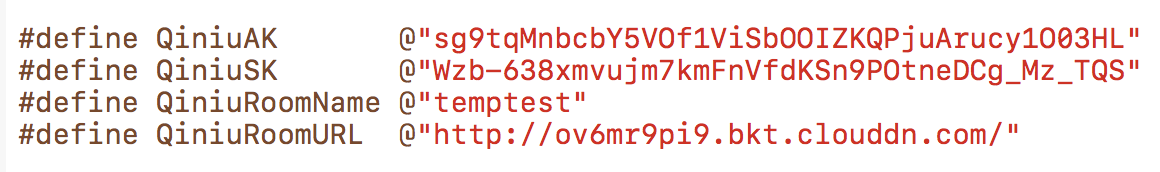
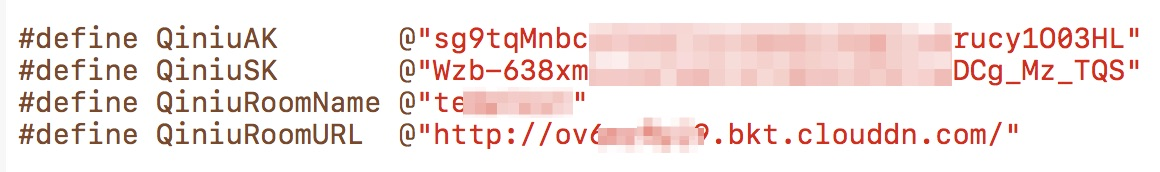
update

diff --git a/ToolBar/BoardToolBar.m b/ToolBar/BoardToolBar.m
@@ -424,8 +424,10 @@
             {
                 if(self.selectingObject){
                     [self.board removeObjectWithObject:self.selectingObject];
+                    self.selectingObject = nil;
                 }else if(self.selectingStaticObject){
                     [self.board removeObjectWithObject:self.selectingStaticObject];
+                    self.selectingStaticObject = nil;
                 }else{
                     //取父级VC
                     id target=self;
@@ -462,6 +464,7 @@
                     }
                 }
                 UIViewController *VC = target;
+                [VC.navigationController popViewControllerAnimated:YES];
                 
                 ZLPhotoActionSheet *actionSheet = [[ZLPhotoActionSheet alloc] init];
                 actionSheet.allowSelectVideo        = NO;
@@ -622,13 +625,13 @@
                                                           roomName:QiniuRoomName
                                                          SecretKey:QiniuSK
                                                          AccessKey:QiniuAK];
-    NSLog(@"%@",token);
+    //NSLog(@"%@",token);
     QNConfiguration *config =[QNConfiguration build:^(QNConfigurationBuilder *builder) {
         NSMutableArray *array = [[NSMutableArray alloc] init];
         [array addObject:[QNResolver systemResolver]];
         QNDnsManager *dns = [[QNDnsManager alloc] init:array networkInfo:[QNNetworkInfo normal]];
         //是否选择  https  上传
-        builder.zone = [[QNAutoZone alloc] initWithHttps:YES dns:dns];
+        builder.zone = [[QNAutoZone alloc]initWithDns:dns];
         //设置断点续传
         NSError *error;
         builder.recorder =  [QNFileRecorder fileRecorderWithFolder:@"temptest" error:&error];

diff --git a/DEMO/ToolBar/BoardToolBar.m b/DEMO/ToolBar/BoardToolBar.m
@@ -625,13 +625,13 @@
                                                           roomName:QiniuRoomName
                                                          SecretKey:QiniuSK
                                                          AccessKey:QiniuAK];
-    NSLog(@"%@",token);
+    //NSLog(@"%@",token);
     QNConfiguration *config =[QNConfiguration build:^(QNConfigurationBuilder *builder) {
         NSMutableArray *array = [[NSMutableArray alloc] init];
         [array addObject:[QNResolver systemResolver]];
         QNDnsManager *dns = [[QNDnsManager alloc] init:array networkInfo:[QNNetworkInfo normal]];
         //是否选择  https  上传
-        builder.zone = [[QNAutoZone alloc] initWithHttps:YES dns:dns];
+        builder.zone = [[QNAutoZone alloc]initWithDns:dns];
         //设置断点续传
         NSError *error;
         builder.recorder =  [QNFileRecorder fileRecorderWithFolder:@"temptest" error:&error];

diff --git a/DEMO/ToolBar/BoardToolBar.h b/DEMO/ToolBar/BoardToolBar.h
@@ -10,10 +10,10 @@
 
 @import WilddogBoard;
 
-#define QiniuAK       @"qSIHb2rWYZNiE80*************************"
-#define QiniuSK       @"3bKGdYSjVgnIATs*************************"
-#define QiniuRoomName @"************"
-#define QiniuRoomURL  @"http://*******.bkt.clouddn.com/"
+#define QiniuAK       @"qSIHb2rWY*******************************"
+#define QiniuSK       @"3bKGdYSjV*******************************"
+#define QiniuRoomName @"*******"
+#define QiniuRoomURL  @"http://ovw****.bkt.clouddn.com/"
 
 
 @interface BoardToolBar : UIView

diff --git a/README.md b/README.md
@@ -15,7 +15,7 @@ example：```pod 'WilddogBoard', :path => '../SDK/'```
 七牛云储存：
 
 ```objc
-pod 'Qiniu'
+pod 'Qiniu','7.1.7'
 ```
 
 ## 二，使用部分
